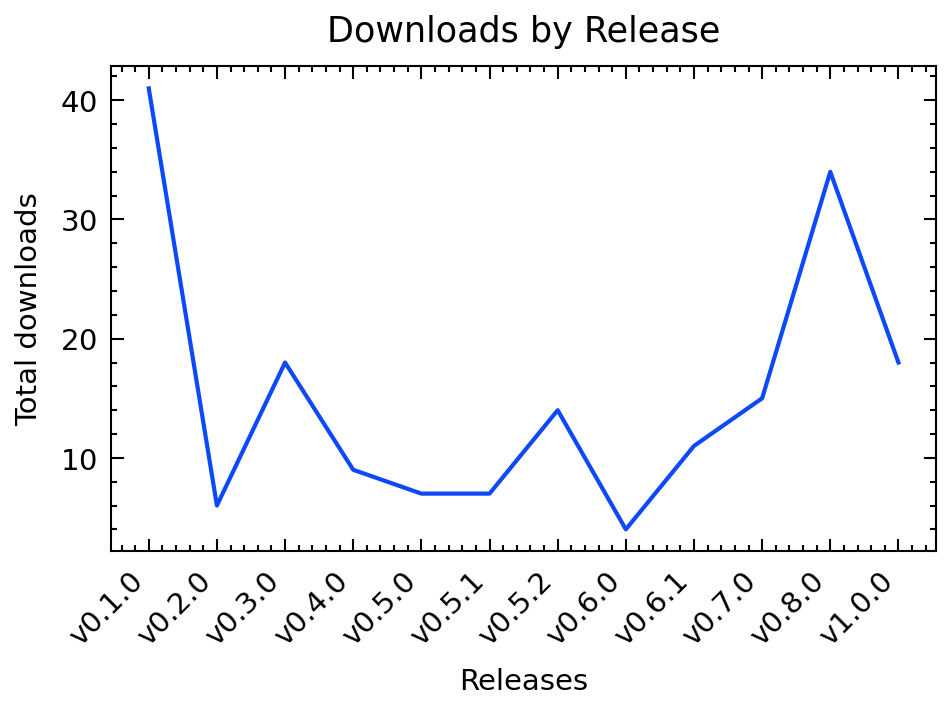
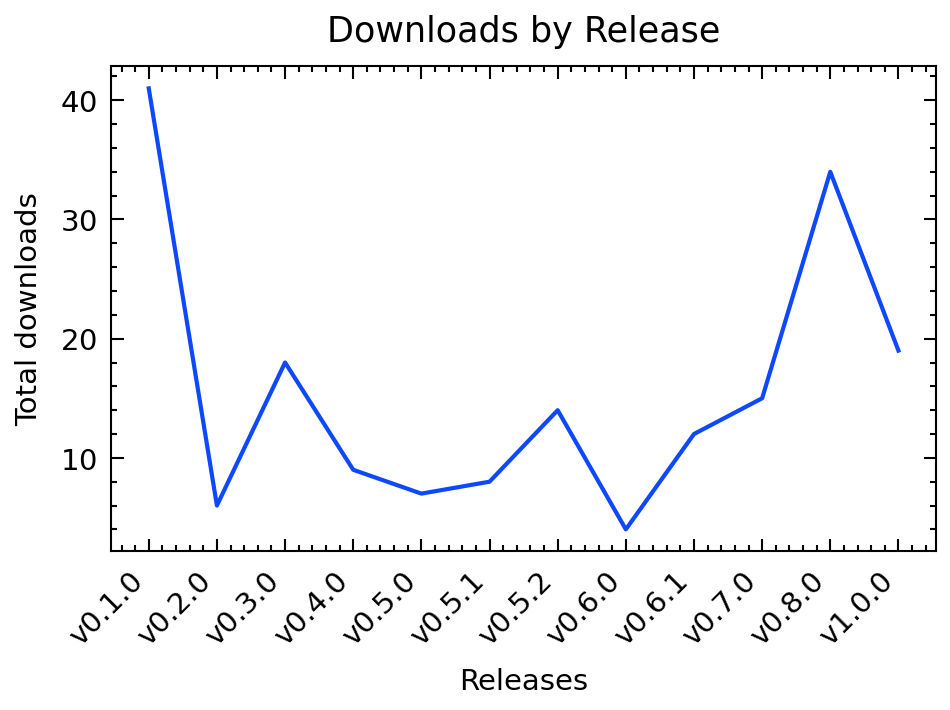
Updated Metrics data

diff --git a/README.md b/README.md
@@ -4,7 +4,7 @@
 SciWIn-Client helps user creating **Computational Workflows** in CWL. Detailed Information about SciWIn-Client can be found in the [GitHub Repository](https://github.com/fairagro/m4.4_sciwin_client). The Metrics shown below have been calculated using the GitHub API. Presentation is done via a CWL Workflow.
 
 ## Downloads by Version
-SciWIn-Client currently has about 184 overall downloads across all versions and operating systems. The lastest version v1.0.0 currently has 18 downloads.
+SciWIn-Client currently has about 187 overall downloads across all versions and operating systems. The lastest version v1.0.0 currently has 19 downloads.
 
 
 ![downloads by version](release.png)
@@ -12,13 +12,13 @@ SciWIn-Client currently has about 184 overall downloads across all versions and 
 
 | Version | Downloads |
 |---------|-----------|
-| v1.0.0 | 18|
+| v1.0.0 | 19|
 | v0.8.0 | 34|
 | v0.7.0 | 15|
-| v0.6.1 | 11|
+| v0.6.1 | 12|
 | v0.6.0 | 4|
 | v0.5.2 | 14|
-| v0.5.1 | 7|
+| v0.5.1 | 8|
 | v0.5.0 | 7|
 | v0.4.0 | 9|
 | v0.3.0 | 18|
@@ -27,7 +27,7 @@ SciWIn-Client currently has about 184 overall downloads across all versions and 
 
 
 ## Downloads by Operating System
-SciWIn-Client is used on all major operating systems. There are 101 downloads of the linux executable, 35 downloads of the Windows executable and 48 downloads of the Mac OS executable.
+SciWIn-Client is used on all major operating systems. There are 103 downloads of the linux executable, 36 downloads of the Windows executable and 48 downloads of the Mac OS executable.
 
 
 ![downloads by platform](platform.png)
@@ -38,8 +38,8 @@ SciWIn-Client is used on all major operating systems. There are 101 downloads of
 | MacOS (ARM) | 29|
 | Linux (ARM) | 22|
 | MacOS (x64) | 19|
-| Windows (x64) | 35|
-| Linux (x64) | 79|
+| Windows (x64) | 36|
+| Linux (x64) | 81|
 
 
 ## Creating this Workflow
